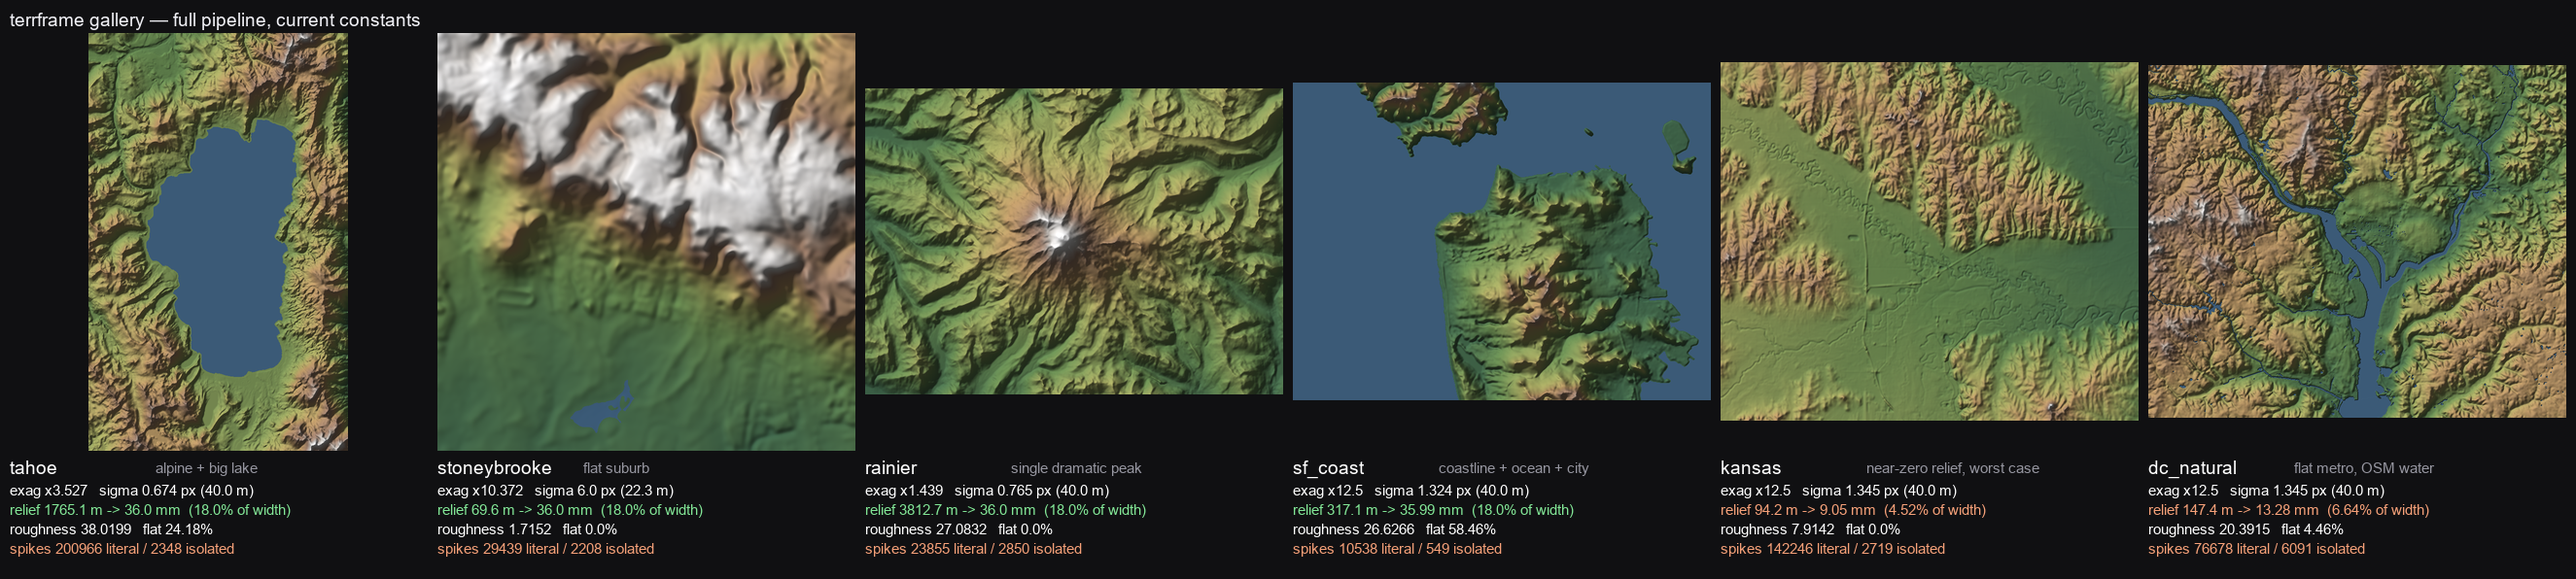
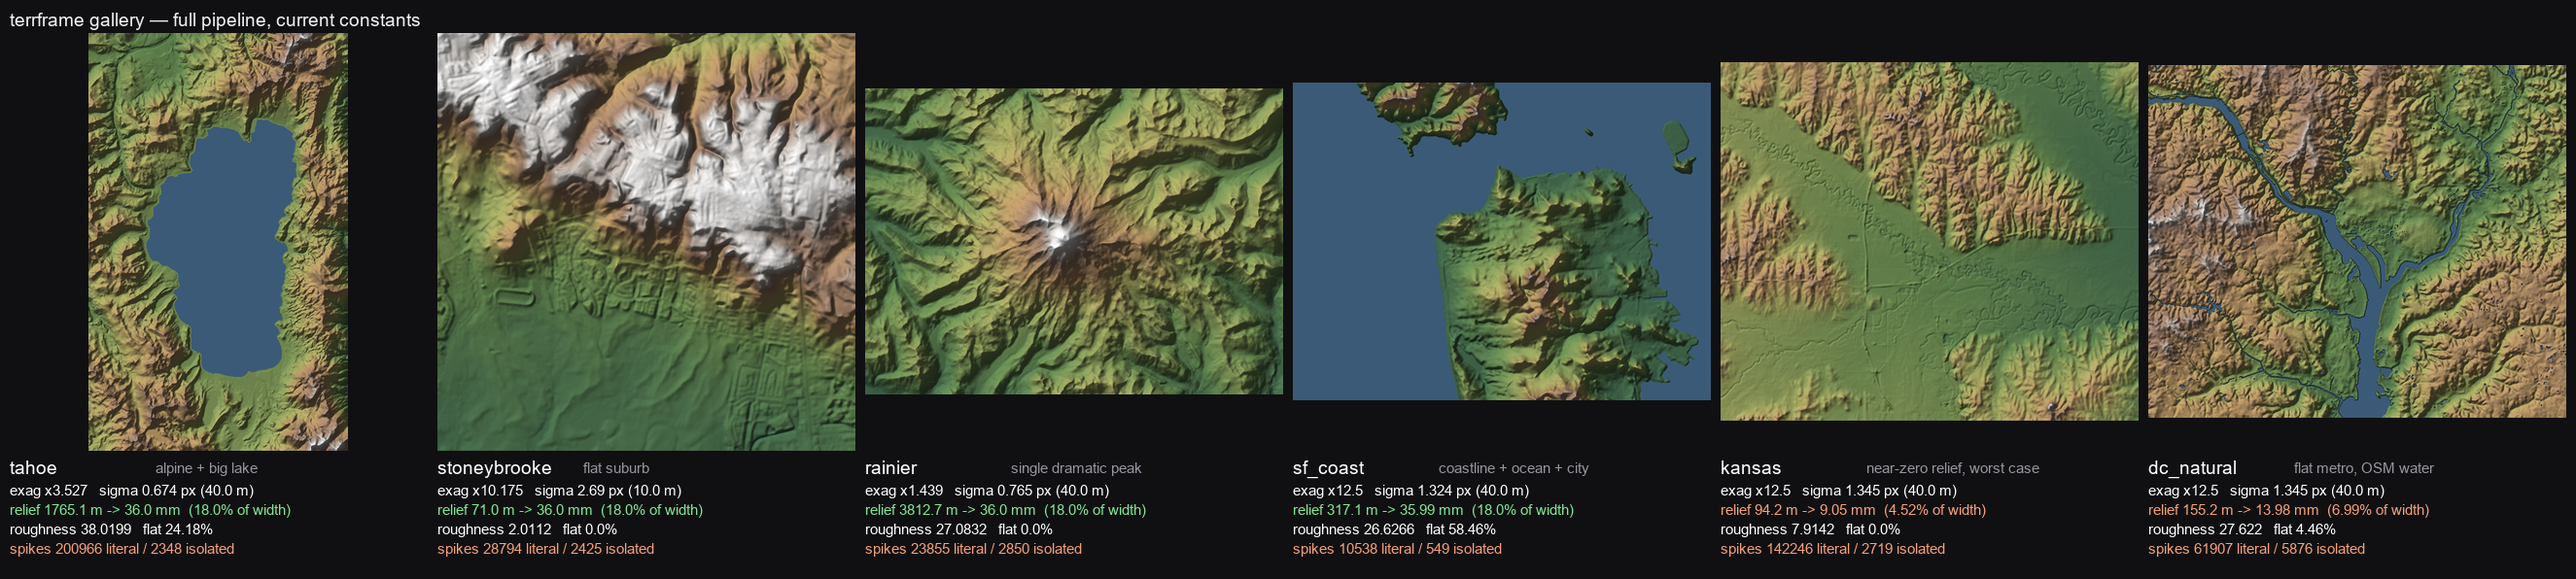
Cap smoothing in printed millimetres; widen the shoreline bead
Two constants were specified in units that do not match what they
control, and both surfaced as "this looks worse".

Smoothing aimed at 40 m of ground, which is right for clutter removal --
a tree is a tree at any framing -- but the print is always 200 mm wide,
so that target cost 0.29 mm of print on a 28 km bbox and 1.32 mm on a
6 km one. Tight framings were blurred roughly 4.5x harder than wide ones
for no reason anyone chose, which is why DC core rendered as a blank
expanse while DC metro looked rich. The ground target still drives the
blur, now capped at SMOOTH_PRINT_MM_MAX of the printed surface. Measured:
core 1.32 -> 0.50 mm, district 0.54 -> 0.50, metro unchanged at 0.29, and
every large-bbox gallery scene untouched, so the Task 5 tuning stands.

This was a hole in that tuning. The gallery suite is almost all large
bboxes, and its one small scene had sigma pinned at SMOOTH_SIGMA_MAX
anyway, so nothing in the suite could have exposed it.

Shoreline bead widens 0.5 -> 1.5 mm. At 0.5 mm it was about two pixels:
one lit, one shadowed, which breaks into dashes under raking light. The
geometry was never at fault -- every one of 4,821 crown pixels measured
exactly 0.400 mm with zero gaps, and rendering the same mesh at 4x and
10x the sample budget changed nothing -- it was simply too thin to read
as a line.

Also fixes gallery.py reporting a sigma computed without the cap, which
would have drifted from the value that actually shaped the grid.
[…]

diff --git a/src/terrframe/heightmap.py b/src/terrframe/heightmap.py
@@ -92,6 +92,23 @@ MAX_SPIKE_CLUSTER_PX = 4
 #: scale of the trees and buildings that need to come off.
 SMOOTH_GROUND_METERS = 40.0
 
+#: Reference print width the millimetre-based constants assume, matching the
+#: CLI's default and :func:`terrframe.mesh.heightmap_to_mesh`.
+PRINT_WIDTH_MM = 200.0
+
+#: Ceiling on that blur expressed in printed millimetres.
+#:
+#: Clutter removal is a *ground*-scale job -- a tree is a tree regardless of
+#: framing -- but legibility is a *print*-scale one, and the print is always
+#: the same width. On a 28 km bbox 40 m of ground is 0.29 mm of print, which is
+#: nothing; on a 6 km bbox it is 1.32 mm, which erases the street grid, the
+#: Mall and the terraced riverbanks. Tight framings were being blurred roughly
+#: 4.5x harder than wide ones for no reason anyone chose.
+#:
+#: So the ground target still drives the blur, capped so it can never eat more
+#: than this much of the printed surface.
+SMOOTH_PRINT_MM_MAX = 0.5
+
 #: Sigma floor: below this, blurring does nothing useful.
 SMOOTH_SIGMA_MIN = 0.5
 
@@ -605,22 +622,33 @@ def despike(arr: np.ndarray, threshold: float = DESPIKE_THRESHOLD) -> np.ndarray
     return out
 
 
-def auto_smooth_sigma(meters_per_px: float) -> float:
-    """Pick a Gaussian sigma giving a consistent ground smoothing radius.
+def auto_smooth_sigma(meters_per_px: float, mm_per_px: float | None = None) -> float:
+    """Pick a Gaussian sigma that removes clutter without erasing the print.
 
-    Targets :data:`SMOOTH_GROUND_METERS` of blur regardless of zoom, so the
-    same bbox cleans up the same way whether it was sampled coarsely or finely.
+    The blur is aimed at :data:`SMOOTH_GROUND_METERS` -- clutter is a physical
+    size, so that target is in ground metres -- but capped at
+    :data:`SMOOTH_PRINT_MM_MAX` of the finished surface. Without the cap the
+    same 40 m target costs 0.29 mm of print on a wide framing and 1.32 mm on a
+    tight one, so tight framings came out blank while wide ones were untouched.
 
     Args:
         meters_per_px: Ground resolution of the grid to be smoothed.
+        mm_per_px: Printed millimetres per pixel. When omitted the print cap is
+            not applied, which is only correct if the caller has already sized
+            the blur itself.
 
     Returns:
-        Sigma in pixels, clamped to
-        ``[SMOOTH_SIGMA_MIN, SMOOTH_SIGMA_MAX]``.
+        Sigma in pixels, clamped to ``[SMOOTH_SIGMA_MIN, SMOOTH_SIGMA_MAX]``.
     """
     if meters_per_px <= 0.0:
         raise ValueError(f"meters_per_px must be positive, got {meters_per_px}")
+
     ideal = SMOOTH_GROUND_METERS / meters_per_px
+    if mm_per_px is not None:
+        if mm_per_px <= 0.0:
+            raise ValueError(f"mm_per_px must be positive, got {mm_per_px}")
+        ideal = min(ideal, SMOOTH_PRINT_MM_MAX / mm_per_px)
+
     return float(np.clip(ideal, SMOOTH_SIGMA_MIN, SMOOTH_SIGMA_MAX))
 
 
@@ -795,7 +823,14 @@ def build_heightmap(
     if despike:
         cleaned = _despike(cleaned, despike_threshold)
 
-    sigma = auto_smooth_sigma(meters_per_px) if smooth_px == "auto" else float(smooth_px or 0.0)
+    # The print is always PRINT_WIDTH_MM across, so pixels map to millimetres
+    # through the grid's own column count.
+    mm_per_px = PRINT_WIDTH_MM / max(resampled.shape[1] - 1, 1)
+    sigma = (
+        auto_smooth_sigma(meters_per_px, mm_per_px)
+        if smooth_px == "auto"
+        else float(smooth_px or 0.0)
+    )
     # Always call through the stage, even at sigma 0: it is a pipeline step,
     # and a no-op smooth is cheaper to reason about than a conditional one.
     cleaned = smooth(cleaned, sigma)

diff --git a/tests/test_cleanup.py b/tests/test_cleanup.py
@@ -234,6 +234,37 @@ def test_auto_smooth_sigma_targets_a_constant_ground_radius() -> None:
         assert sigma * mpp == pytest.approx(SMOOTH_GROUND_METERS)
 
 
+def test_print_cap_only_bites_on_tight_framings() -> None:
+    """Blur is aimed in ground metres but capped in printed millimetres.
+
+    Without the cap the same 40 m target costs 0.29 mm of print on a 28 km
+    bbox and 1.32 mm on a 6 km one, so tight framings came out blank while
+    wide ones were untouched. The cap must change the former and not the
+    latter.
+    """
+    from terrframe.heightmap import PRINT_WIDTH_MM, SMOOTH_PRINT_MM_MAX
+
+    # A tight framing: fine ground resolution, so the ground target overshoots.
+    tight_mpp, tight_cols = 7.4, 817
+    tight_mm_px = PRINT_WIDTH_MM / (tight_cols - 1)
+    uncapped = auto_smooth_sigma(tight_mpp)
+    capped = auto_smooth_sigma(tight_mpp, tight_mm_px)
+    assert capped < uncapped
+    assert capped * tight_mm_px == pytest.approx(SMOOTH_PRINT_MM_MAX, rel=1e-6)
+
+    # A wide framing: the ground target already fits inside the print budget.
+    wide_mpp, wide_cols = 29.7, 933
+    wide_mm_px = PRINT_WIDTH_MM / (wide_cols - 1)
+    assert auto_smooth_sigma(wide_mpp, wide_mm_px) == pytest.approx(
+        auto_smooth_sigma(wide_mpp)
+    ), "the cap must not touch framings that were already within budget"
+
+
+def test_print_cap_rejects_bad_scale() -> None:
+    with pytest.raises(ValueError):
+        auto_smooth_sigma(10.0, 0.0)
+
+
 def test_auto_smooth_sigma_is_monotonic() -> None:
     resolutions = np.linspace(5.0, 150.0, 30)
     sigmas = [auto_smooth_sigma(float(m)) for m in resolutions]

diff --git a/scripts/gallery.py b/scripts/gallery.py
@@ -33,6 +33,7 @@ from terrframe.heightmap import (  # noqa: E402
     DESPIKE_THRESHOLD,
     DESPIKE_WINDOW_PX,
     MAX_SPIKE_CLUSTER_PX,
+    PRINT_WIDTH_MM,
     auto_smooth_sigma,
     build_heightmap,
     exaggerate,
@@ -189,7 +190,16 @@ def render_scene(
         exaggeration=1.0,
         smooth_px=("auto" if forced_sigma is None else (forced_sigma or None)),
     )
-    sigma = auto_smooth_sigma(heightmap.meters_per_px) if forced_sigma is None else forced_sigma
+    # Mirror what build_heightmap actually used, print cap included, or the
+    # reported sigma silently drifts from the one that shaped the grid.
+    sigma = (
+        auto_smooth_sigma(
+            heightmap.meters_per_px,
+            PRINT_WIDTH_MM / max(heightmap.elevation.shape[1] - 1, 1),
+        )
+        if forced_sigma is None
+        else forced_sigma
+    )
 
     if "exaggeration" in overrides:
         factor = float(overrides["exaggeration"])

diff --git a/src/terrframe/features.py b/src/terrframe/features.py
@@ -100,7 +100,13 @@ BUILDING_DILATION_PX = 1
 WATER_DEPTH_MM = 1.0
 
 #: Width of the raised bead outlining every water body, in millimetres.
-SHORELINE_WIDTH_MM = 0.5
+#:
+#: 0.5 mm was about two pixels on a production grid: one lit pixel and one
+#: shadowed one, which breaks into dashes under raking light and prints at the
+#: edge of what a nozzle resolves. The geometry was uniform either way -- every
+#: crown pixel measured exactly its nominal height -- but it did not read as a
+#: line. Widening costs nothing and makes it continuous.
+SHORELINE_WIDTH_MM = 1.5
 
 #: Height of that bead above local terrain, in millimetres.
 SHORELINE_HEIGHT_MM = 0.4
